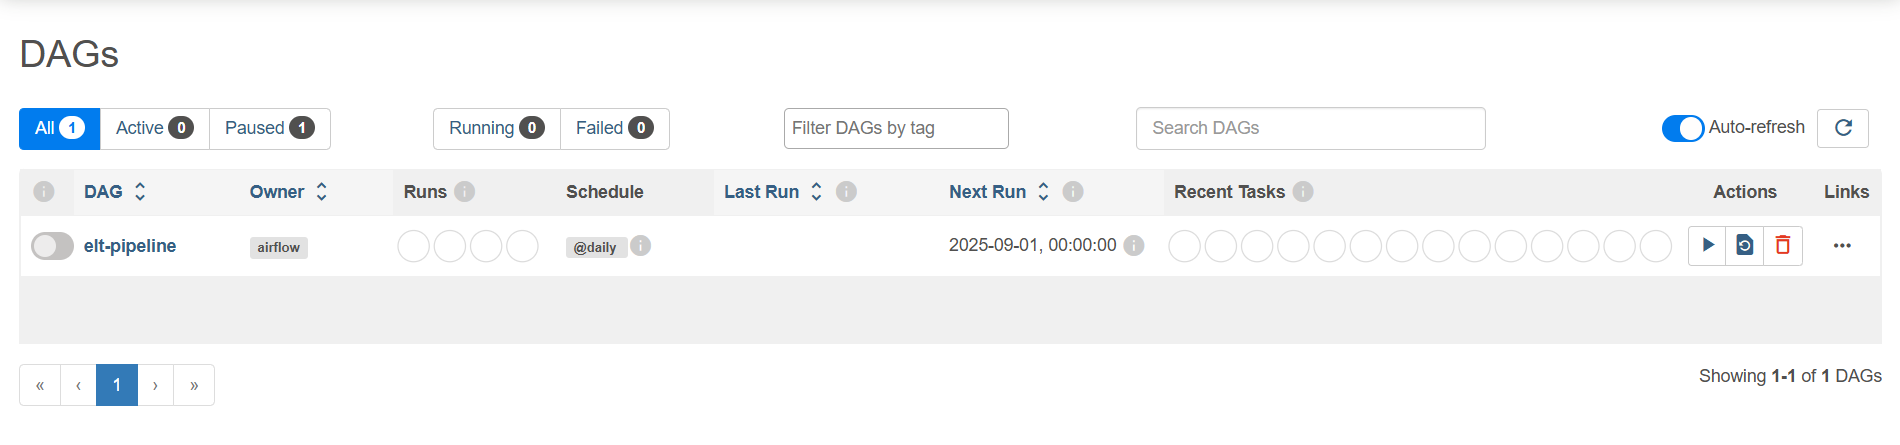
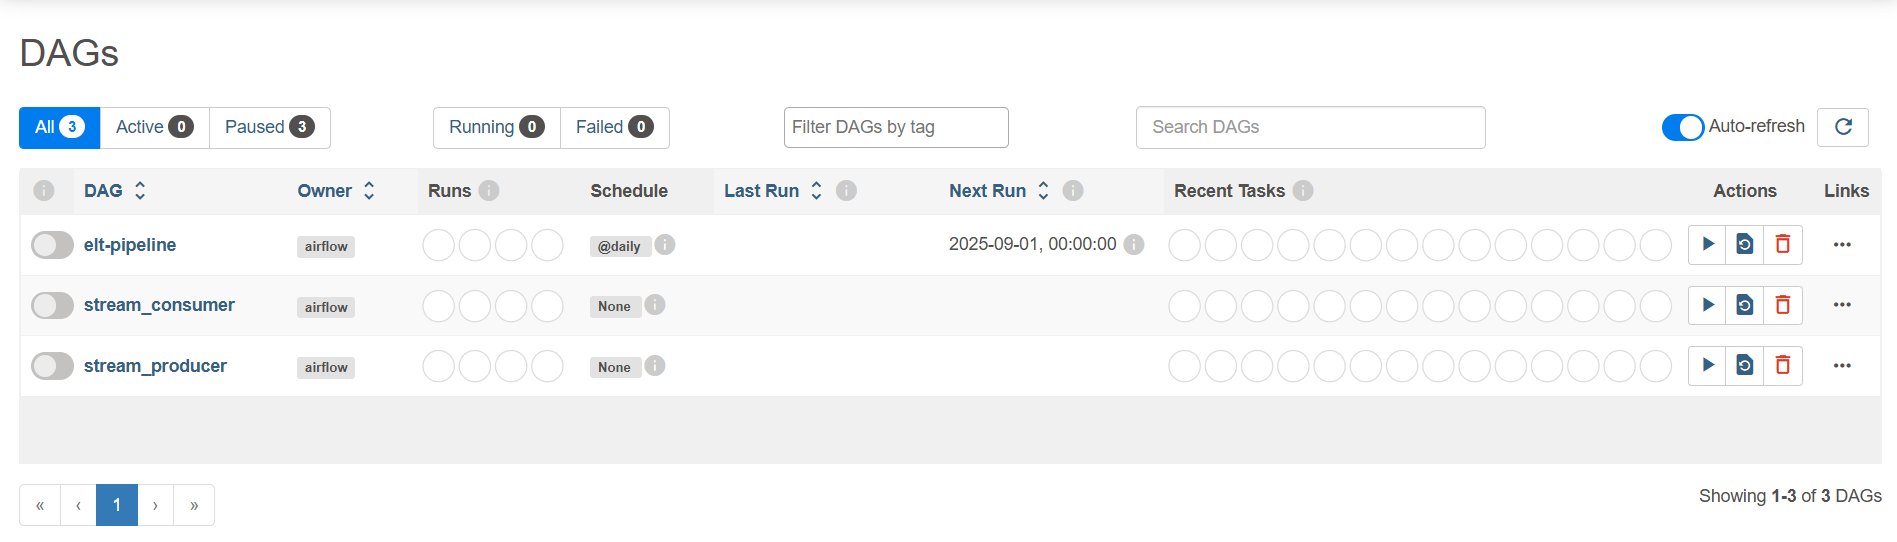
Added Streaming Pipeline and Updated README.md

diff --git a/airflow/dags/scripts/data_subscriber.py b/airflow/dags/scripts/data_subscriber.py
@@ -1,0 +1,48 @@
+import os
+import json
+import time
+import threading
+from google.cloud import pubsub_v1
+from datetime import datetime, timezone
+
+WINDOW_DURATION = 60
+
+message_buffer = []
+lock = threading.Lock()
+
+def callback(message):
+    try:
+        data = json.loads(message.data.decode("utf-8"))
+        with lock:
+            message_buffer.append(data)
+        message.ack()
+    except Exception as e:
+        print(f"Error decoding message: {e}")
+        message.nack()
+
+
+def aggregate_job():
+    while True:
+        time.sleep(WINDOW_DURATION)
+        with lock:
+            count = len(message_buffer)
+            timestamp = datetime.now(timezone.utc).strftime("%Y-%m-%d %H:%M:%S")
+            print(f"[{timestamp}] Total transaksi dalam 1 menit terakhir: {count}")
+            message_buffer.clear()
+
+
+def main():
+    os.environ["GOOGLE_APPLICATION_CREDENTIALS"] = "/opt/airflow/config/sub-credential.json"
+    subscriber = pubsub_v1.SubscriberClient()
+    subscription_path = subscriber.subscription_path("gcpl-469311", "datalabs-streamtest-sub")
+
+    threading.Thread(target=aggregate_job, daemon=True).start()
+
+    print(f"Listening on {subscription_path} ...")
+    streaming_pull = subscriber.subscribe(subscription_path, callback=callback)
+
+    try:
+        streaming_pull.result()
+    except KeyboardInterrupt:
+        streaming_pull.cancel()
+        print("Stopped.")

diff --git a/airflow/dags/scripts/data_publisher.py b/airflow/dags/scripts/data_publisher.py
@@ -1,0 +1,28 @@
+import os
+import json, time, random
+from datetime import datetime, timezone
+from google.cloud import pubsub_v1
+
+def publish():
+    os.environ["GOOGLE_APPLICATION_CREDENTIALS"] = "/opt/airflow/config/pub-credential.json"
+
+    publisher = pubsub_v1.PublisherClient()
+    topic_path = publisher.topic_path("gcpl-469311", "datalabs-streamtest")
+    
+    transaction_ids = 1
+    while True:
+        transaction = {
+            "transaction_id": transaction_ids,
+            "customer_id": random.randint(1, 100),
+            "product_id": random.randint(1, 50),
+            "quantity": random.randint(1, 5),
+            "price": round(random.uniform(5.0, 200.0), 2),
+            "timestamp" : datetime.now(timezone.utc).strftime("%Y-%m-%d %H:%M:%S")
+        }
+
+        data = json.dumps(transaction).encode("utf-8")
+        publisher.publish(topic_path, data)
+        print(f"Published: {transaction}")
+
+        transaction_ids += 1
+        time.sleep(random.uniform(0.5, 2.0))

diff --git a/airflow/dags/stream_consumer.py b/airflow/dags/stream_consumer.py
@@ -1,0 +1,22 @@
+from airflow import DAG
+from airflow.operators.empty import EmptyOperator
+from airflow.operators.python import PythonOperator
+from datetime import timedelta
+from scripts.data_subscriber import main
+
+with DAG(
+    dag_id="stream_consumer",
+    schedule_interval=None,
+    catchup=False,
+    max_active_runs=1
+) as dag:
+
+    start = EmptyOperator(task_id="start")
+    end = EmptyOperator(task_id="end")
+
+    subscribe_task = PythonOperator(
+        task_id=f"subscribe",
+        python_callable=main
+    )
+
+    start >> subscribe_task >> end

diff --git a/airflow/dags/stream_producer.py b/airflow/dags/stream_producer.py
@@ -1,0 +1,22 @@
+from airflow import DAG
+from airflow.operators.empty import EmptyOperator
+from airflow.operators.python import PythonOperator
+from datetime import timedelta
+from scripts.data_publisher import publish
+
+with DAG(
+    dag_id="stream_producer",
+    schedule_interval=None,
+    catchup=False,
+    max_active_runs=1
+) as dag:
+
+    start = EmptyOperator(task_id="start")
+    end = EmptyOperator(task_id="end")
+
+    publish_task = PythonOperator(
+        task_id=f"publish",
+        python_callable=publish
+    )
+
+    start >> publish_task >> end

diff --git a/airflow/dags/scripts/transform.py b/airflow/dags/scripts/transform.py
@@ -126,7 +126,7 @@ def transform(**kwargs):
     import os
     from google.cloud import bigquery
 
-    os.environ["GOOGLE_APPLICATION_CREDENTIALS"] = "/opt/airflow/config/credentials.json"
+    os.environ["GOOGLE_APPLICATION_CREDENTIALS"] = "/opt/airflow/config/bq-credential.json"
 
     client = bigquery.Client()
 

diff --git a/README.md b/README.md
@@ -1,17 +1,21 @@
 # Datalabs Data Engineering Technical Test
-
+### Batch
 <img src='assets/datapipe_architecture.jpg'>
+
+### Streaming
+<img src='assets/stream_architecture..png'>
 
 ## Overview
 
 This project was developed as Technical Test for the Data Engineering Position at datalabs.id. It demonstrates the design and implementation of an end-to-end data pipeline, focusing on data ingestion, transformation, and warehouse modeling using modern data engineering tools.
 
-The pipeline simulates a real-world scenario where transactional data is generated, processed, and analyzed through various stages — from raw data ingestion to a dimensional data warehouse structure.
+The pipeline simulates a real-world scenario where transactional data is generated, processed, and analyzed through various stages, from raw data ingestion to a dimensional data warehouse structure.
 
-The project is divided into three core tasks:
+The project is divided into three core tasks and one Additional task:
 - **Extracting data** from a local **PostgreSQL database**.
 - **Ingesting/Loading data** to **Google Bigquery** as data warehouse for further data transformation.
 - **Transforming data** into a star schema consisting of **fact and dimension tables**.
+- **Additional - Stream** event-based data to **Google Cloud Pub/Sub** for real-time processing.
 
 ## Tools
 
@@ -90,3 +94,31 @@ The transformation process creates one **fact table** and several **dimension ta
 Below is the **Entity Relationship Diagram (ERD)** that illustrates the relationship between the fact and dimension tables:
 
 <img src='assets/ERD.png'>
+
+I chose this model to focus the analytical process around the **`fact_sales`** table, which serves as the central **fact table** containing the main transactional data derived from the staging tables **`transactions`** and **`transaction_items`**.
+The selected columns represent key quantitative and relational attributes that support sales performance analysis:
+
+**`transaction_id`** – Serves as a unique identifier for each transaction and links to the date dimension (**`dim_dates`**).
+
+**`customer_id`** – Connects each transaction to customer information in **`dim_customers`**, enabling behavioral and segmentation analysis.
+
+**`product_id`** – Links transactions to product details in **`dim_products`**, supporting product-level performance analysis.
+
+**`quantity`** – Indicates the number of products purchased in each transaction, representing sales volume.
+
+**`total_price`** – Represents the total transaction value (quantity × price), used for revenue and financial performance metrics.
+
+The dimension tables (**`dim_customers`**, **`dim_products`**, **`dim_dates`**, and **`dim_campaigns`**) act as **supporting structures** that provide additional descriptive context for analytical purposes, allowing flexible exploration of sales data by customer, product, time, and campaign dimensions.
+
+### **Google Pub/Sub** – Cloud-based messaging service for real-time data streaming and event-driven communication.
+
+This additional task demonstrates a **real-time data streaming pipeline** using **Google Pub/Sub** and **Python**.
+It simulates how event-driven data can be ingested, processed, and aggregated continuously outside the batch ETL flow.
+
+**Workflow Overview**
+
+1. **Python Producer** generates **dummy event-based data** (simulating transaction events).
+2. These events are **published** to a **Pub/Sub topic** in **real time**.
+3. **Pub/Sub** acts as the message streaming layer, ensuring reliable delivery of event data.
+4. **A Python Subscriber** listens to the subscribed topic, **pulls messages**, and performs a 1-minute aggregation to count the total number of transactions received within that window.
+5. The aggregated result is then **logged**.
